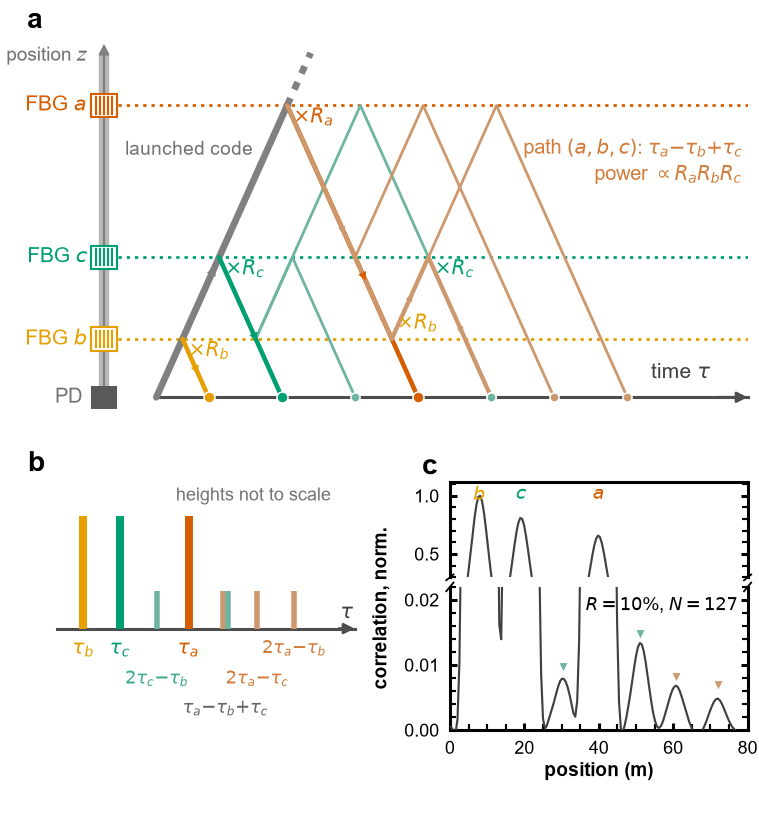
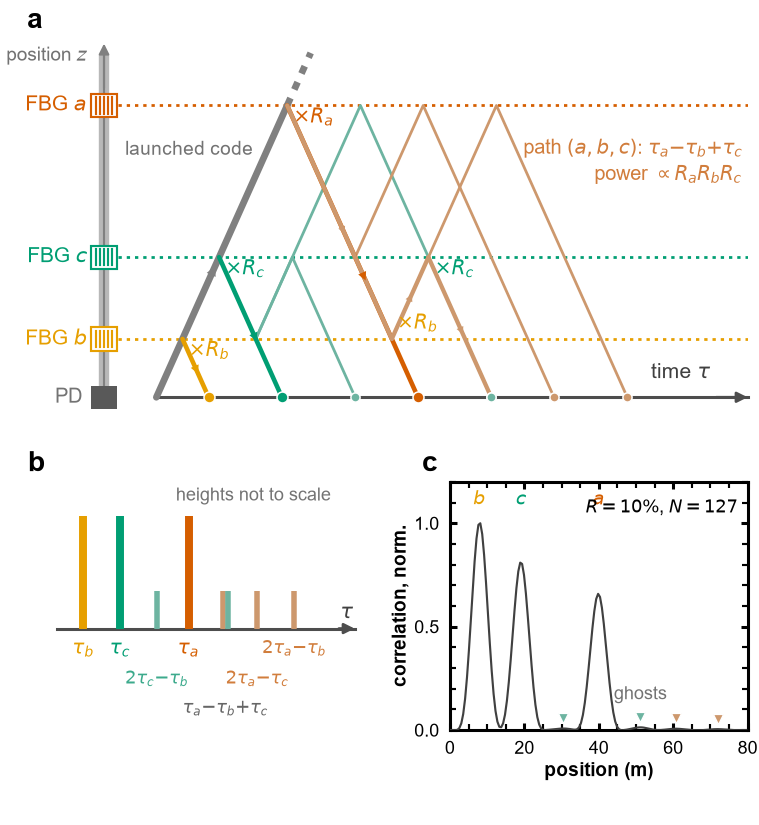
s50 (c): one continuous linear axis, the ghosts shown at their true height under the direct returns

diff --git a/python_selfcal_cdm/s50_ghostpath.py b/python_selfcal_cdm/s50_ghostpath.py
@@ -20,8 +20,8 @@ figures of the paper.
       z = 8, 19.2, 40 m (the ratios of (a)), R = 10 %, unipolar m-sequence
       N = 127 at 25 Mchip/s (Table III), every path up to the third order, record mean
       removed, correlation with the bipolar replica, constant offset of the
-      periodic correlation subtracted. Broken linear scale: the direct
-      returns above, the ghosts below.
+      periodic correlation subtracted. Linear scale, so that the ghosts
+      show how low they sit under the direct returns.
 """
 import os
 import numpy as np
@@ -87,9 +87,7 @@ gs = fig.add_gridspec(2, 2, height_ratios=[1.5, 1.0], width_ratios=[1.0, 1.0],
                       hspace=0.22, wspace=0.32, left=0.075, right=0.985, bottom=0.115, top=0.95)
 ax = fig.add_subplot(gs[0, :])
 bx = fig.add_subplot(gs[1, 0])
-gsc = gs[1, 1].subgridspec(2, 1, height_ratios=[1.0, 1.5], hspace=0.08)
-cT = fig.add_subplot(gsc[0, 0])          # direct returns
-cb = fig.add_subplot(gsc[1, 0], sharex=cT)   # ghosts
+cx = fig.add_subplot(gs[1, 1])
 
 LW_IN, LW_RET, LW_GH, LW_GHF = 2.2, 1.5, 1.4, 0.7
 
@@ -280,47 +278,31 @@ ref_meas = corr[(zaxis > 6.0) & (zaxis < 10.0)].max()   # its peak after the rec
 print('first direct return after the receiver chain: %.3f of ideal' % (ref_meas / ref))
 XMAX = 80.0
 m = zaxis <= XMAX
-y = corr[m] / ref_meas
-for a_ in (cT, cb):
-    a_.plot(zaxis[m], y, color='0.25', lw=0.7, zorder=3)
-# top part: the direct returns
-cT.set_ylim(0.3, 1.12)
-cT.set_yticks([0.5, 1.0])
+cx.plot(zaxis[m], corr[m] / ref_meas, color='0.25', lw=0.7, zorder=3)
 for seq, amp, zpos in P:
     if len(seq) == 1:
-        cT.text(zpos, 1.09, r'$%s$' % seq[0], color=COL[seq[0]], ha='center', va='top', fontsize=6.2)
-# bottom part: the ghosts, with the expected height of every one
-YC = 0.022
-cb.set_ylim(0, YC)
-cb.set_yticks([0, 0.01, 0.02])
+        cx.text(zpos, 1.07, r'$%s$' % seq[0], color=COL[seq[0]], ha='center', va='bottom', fontsize=6.2)
+# the ghosts: a marker above every expected position, at the expected height
 pos = {}
 for seq, amp, zpos in P:
     if len(seq) == 3:
         pos.setdefault(round(zpos, 3), []).append((seq, amp))
 for zpos, lst in pos.items():
     tot = sum(a for _, a in lst) / ref
-    cb.plot(zpos, tot + 0.0016, 'v', color=GH[lst[0][0][0]], ms=3.2, mec='white', mew=0.4, zorder=5)
-# the break
-cT.spines['bottom'].set_visible(False)
-cb.spines['top'].set_visible(False)
-cT.tick_params(axis='x', which='both', bottom=False, top=False, labelbottom=False)
-cb.tick_params(axis='x', which='both', top=False)
-for a_, yy in ((cT, 0.0), (cb, 1.0)):
-    a_.plot([-0.012, 0.012], [yy - 0.03, yy + 0.03], transform=a_.transAxes, color='k', lw=0.6, clip_on=False)
-    a_.plot([1 - 0.012, 1 + 0.012], [yy - 0.03, yy + 0.03], transform=a_.transAxes, color='k', lw=0.6, clip_on=False)
-cb.set_xlim(0, XMAX)
-cb.set_xticks([0, 20, 40, 60, 80])
-for a_ in (cT, cb):
-    a_.tick_params(labelsize=5.8, length=2.2)
-cb.set_xlabel('position (m)', fontsize=6.2, labelpad=1.5)
-cb.set_ylabel('correlation, norm.', fontsize=6.2, labelpad=1.5)
-cb.yaxis.set_label_coords(-0.2, 0.85)
-cb.text(0.97, 0.93, r'$R=10\%$, $N=127$', transform=cb.transAxes, ha='right', va='top', fontsize=5.8)
-cx = cT
+    cx.plot(zpos, tot + 0.05, 'v', color=GH[lst[0][0][0]], ms=3.2, mec='white', mew=0.4, zorder=5)
+cx.text(0.5 * (min(pos) + max(pos)), 0.13, 'ghosts', color='0.45', ha='center', va='bottom', fontsize=5.8)
+cx.set_xlim(0, XMAX)
+cx.set_ylim(0, 1.2)
+cx.set_xticks([0, 20, 40, 60, 80])
+cx.set_yticks([0, 0.5, 1.0])
+cx.tick_params(labelsize=5.8, length=2.2)
+cx.set_xlabel('position (m)', fontsize=6.2, labelpad=1.5)
+cx.set_ylabel('correlation, norm.', fontsize=6.2, labelpad=1.5)
+cx.text(0.97, 0.93, r'$R=10\%$, $N=127$', transform=cx.transAxes, ha='right', va='top', fontsize=5.8)
 _, corr0, _ = delay_profile(Z, noise=False)
 print('noise rms (with minus without): %.1e of the first direct return' % (np.std(corr - corr0) / ref_meas))
 
-for a_, let in ((ax, 'a'), (bx, 'b'), (cT, 'c')):
+for a_, let in ((ax, 'a'), (bx, 'b'), (cx, 'c')):
     a_.text(-0.02 if a_ is ax else -0.04, 1.02, let, transform=a_.transAxes, fontsize=9, fontweight='bold',
             ha='right', va='bottom')
 
